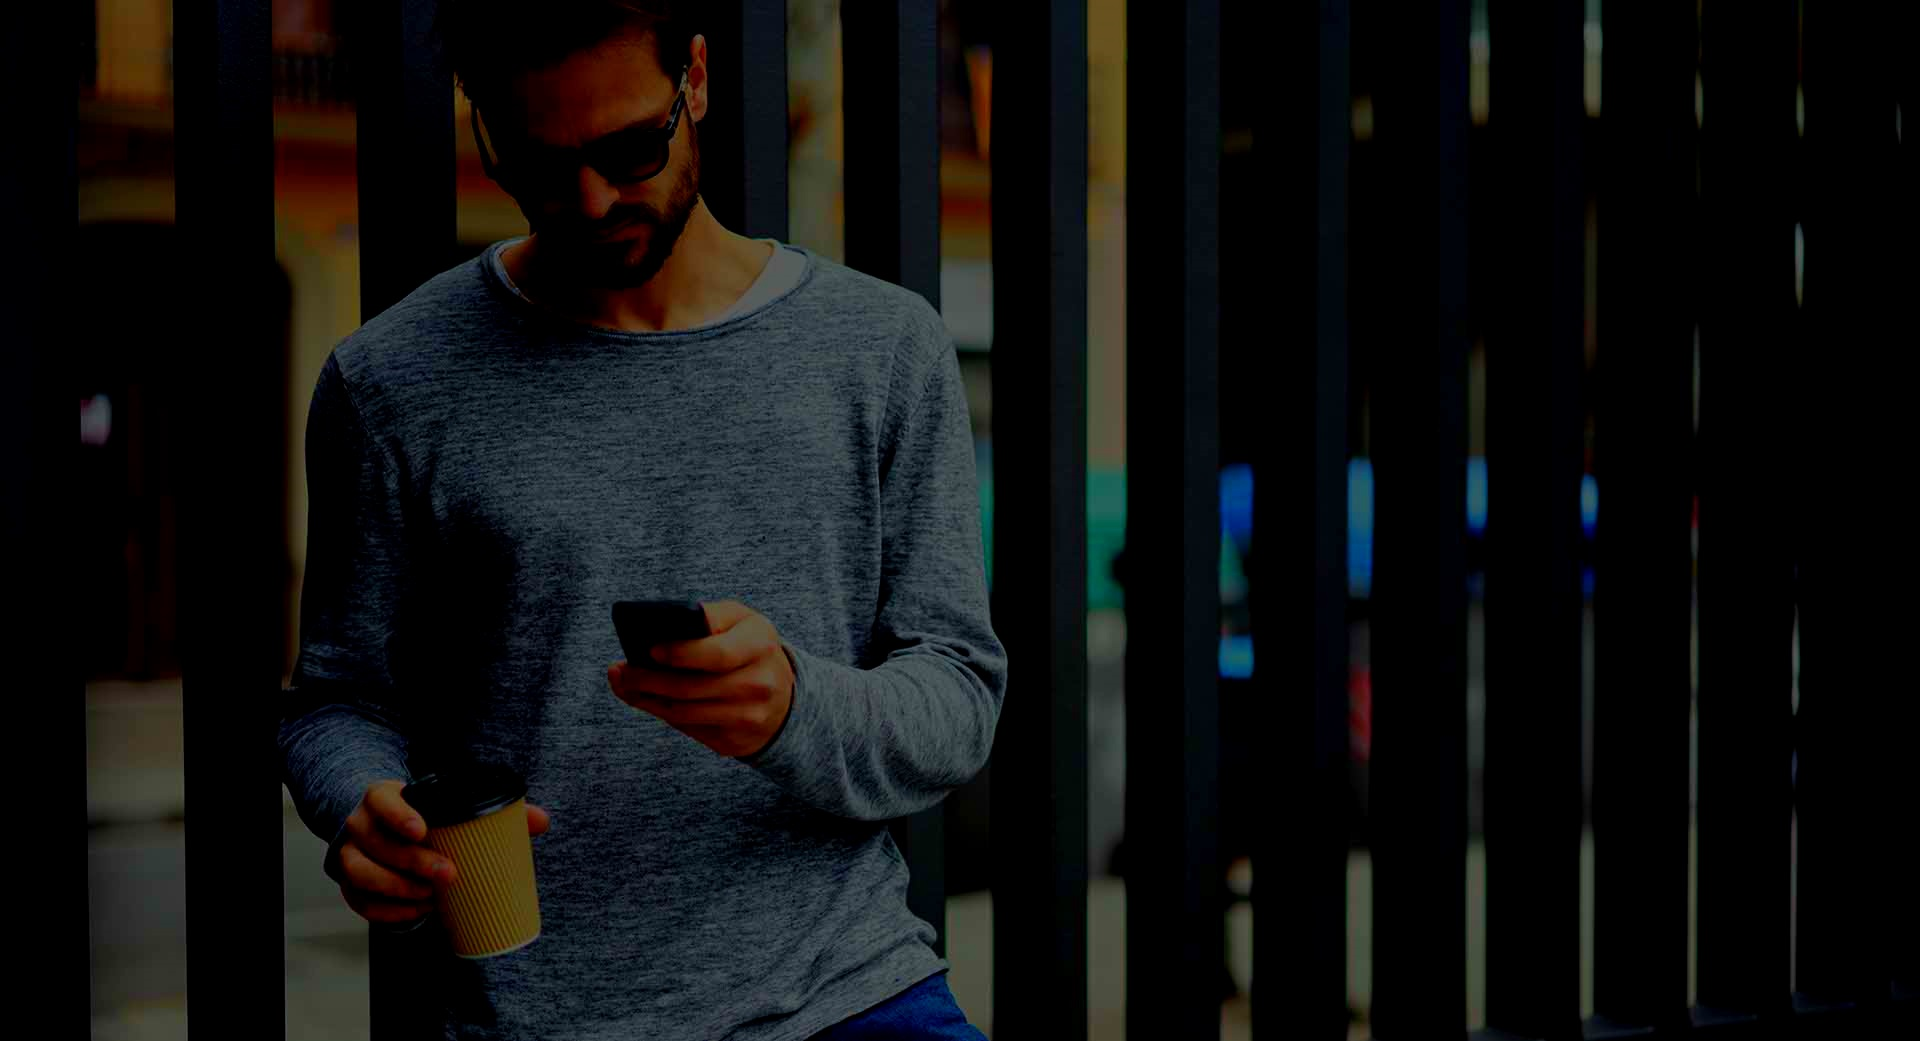
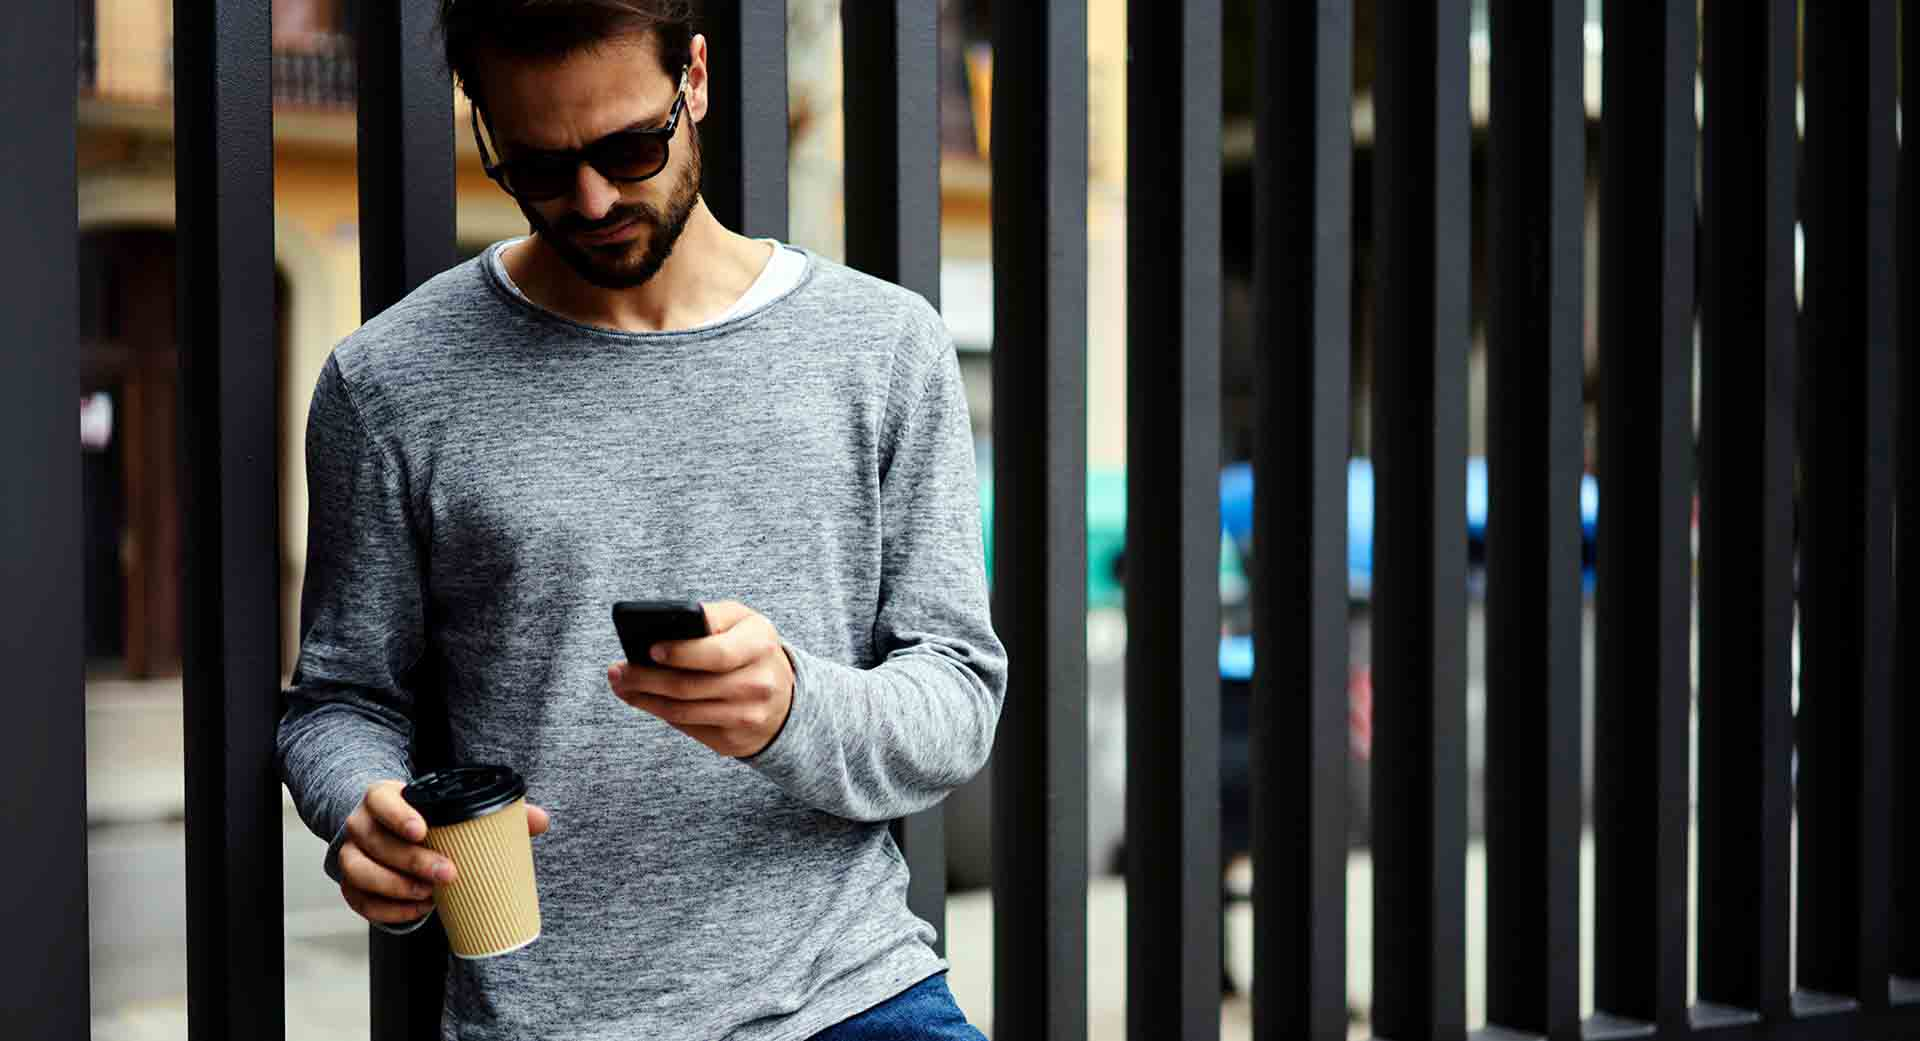
my resume

diff --git a/index.html b/index.html
@@ -26,13 +26,15 @@
     <link rel="stylesheet" href="css/contact.css">
     <link rel="stylesheet" href="css/footer.css">
 </head>
+
 <body>
+
     <header class="container">
         <div class="row" id="hdr">
             <div class="col-2">
                 <img class="logo" src="img/logo.png" alt="Logo">
             </div>
-            <div class="col-10 hidden-sm">
+            <div class="col-9 margin-l-1 hidden-sm">
                 <nav>
                     <a href="#">Home</a>
                     <a href="#about">About</a>
@@ -63,16 +65,14 @@
             </div>
         </div>   
     </div>
-    
-   
         
     <div class="container bg-third-color">
         <div class="row" id="about">
-            <div class="col-5 margin-l-1 col-md-12 margin-md-0">
+            <div class="col-5 margin-l-1 col-md-6 margin-md-0 col-sm-12 margin-sm-0">
                 <img src="img/john.jpg"/>
             </div>
             
-            <div class="col-5 margin-r-1 col-md-12 margin-md-0">
+            <div class="col-5 margin-r-1 col-md-6 margin-md-0 col-sm-12 margin-sm-0">
                 <div class="h3-cont">
                     <h3><span>About</span> Me</h3>
                 </div>
@@ -113,6 +113,44 @@
         <div class="row" id="resume">
             <div class="col-12">
                 <h3> <span>My</span> resume</h3> 
+            </div>
+            <div class="col-6 col-sm-12 left-study">
+                <i class="fa fa-book"></i>
+                <div class="all-list"></div>
+                <!-- <div class="list">
+                    <p>Jan 2004 - Dec 2006</p>
+                    <h5>SPECIAdivZATION COURSE</h5>
+                    <h6>University Of Studies, Poland, Cracow</h6>
+                </div>
+                <div class="list">
+                        <p>Jan 2004 - Dec 2006</p>
+                        <h5>SPECIAdivZATION COURSE</h5>
+                        <h6>University Of Studies, Poland, Cracow</h6>
+                    </div>
+                    <div class="list">
+                        <p>Jan 2004 - Dec 2006</p>
+                        <h5>SPECIAdivZATION COURSE</h5>
+                        <h6>University Of Studies, Poland, Cracow</h6>
+                    </div> -->
+            </div>
+            <div class="col-6 col-sm-12 right-work">
+                <i class="fa fa-briefcase"></i>
+                <div class="all-list"></div>
+                <!-- <div class="list">
+                    <p>Jan 2004 - Dec 2006</p>
+                    <h5>SPECIAdivZATION COURSE</h5>
+                    <h6>University Of Studies, Poland, Cracow</h6>
+                </div>
+                <div class="list">
+                        <p>Jan 2004 - Dec 2006</p>
+                        <h5>SPECIAdivZATION COURSE</h5>
+                        <h6>University Of Studies, Poland, Cracow</h6>
+                    </div>
+                    <div class="list">
+                            <p>Jan 2004 - Dec 2006</p>
+                            <h5>SPECIAdivZATION COURSE</h5>
+                            <h6>University Of Studies, Poland, Cracow</h6>
+                        </div> -->
             </div>
         </div> 
     </div>

diff --git a/css/resume.css b/css/resume.css
@@ -1,1 +1,97 @@
 /* Resume section */
+#resume i{
+    display: inline-block;
+    width: 50px;
+    height: 50px;
+    border: 1px solid black;
+    border-radius: 50%;
+    font-size: 20px;
+    line-height: 50px;
+    text-align: center;
+    color: var(--third-color);
+    background-color: var(--icon-fill);
+}
+
+#resume .left-study{
+    text-align: right;
+}
+
+#resume .right-work{
+    text-align: left;   
+}
+
+#resume .list{
+    padding-bottom: 25px;
+    padding-top: 40px;
+}
+
+    #resume .list:last-child{
+        padding-bottom: 0;
+    }
+        #resume .left-study .list:last-child{
+            margin-bottom: 50px;
+        }
+        #resume .right-work .list:last-child{
+            margin-bottom: 100px;
+        }
+
+
+    #resume .left-study  .list {
+        position: relative;
+        width: calc(100% - 25px);
+        padding-right: 25px;
+        margin-right: -25px;
+        border-right: 1px solid var(--secondary-color);
+    }
+        #resume .left-study .list::before {
+            content: '';
+            position: absolute;
+            top: 43px;
+            right: -6px;
+            width: 7px;
+            height: 7px;
+            border: var(--gold) solid 2px;
+            background: var(--icon-fill);
+            border-radius: 50px;
+        }
+
+    #resume .right-work .list {
+        position: relative; 
+        width: calc(100% - 25px);
+        padding-left: 25px;
+        margin-left: 25px;
+        border-left: 1px solid var(--secondary-color);
+    }
+        #resume .right-work .list::before {
+            content: '';
+            position: absolute;
+            top: 43px;
+            left: -6px;
+            width: 7px;
+            height: 7px;
+            border: var(--gold) solid 2px;
+            background: var(--icon-fill);
+            border-radius: 50px;
+        }
+    
+        #resume .list > p{
+            padding-bottom: 20px;
+            font-size: 18px;
+            line-height: 18px;
+        }
+
+        #resume .list > h5{
+            font-size: 18px;
+            line-height: 18px;
+            font-weight: 400;
+            color: var(--main-color);
+            text-transform: uppercase;
+            padding-bottom: 10px;
+        }
+        
+        #resume .list > h6{
+            font-weight: 400;
+            font-size: 18px;
+            line-height: 18px;
+            margin-bottom: 10px;
+        }

diff --git a/js/data.js b/js/data.js
@@ -69,6 +69,42 @@ const hardSkills = [
 
 /* My resume */
 
+const education = [
+    {
+        year: 'Jan 2004 - Dec 2006',
+        course: 'cooursourLists of  United Statessok',
+        school: 'Lists of schools in the United States'
+    },
+    {
+        year: 'Jan 2004 - Dec 2006',
+        course: 'cooursourLists of  United Statessok',
+        school: 'VGTu Lists of schools in the United States'
+    },
+    {
+        year: 'Jan 2004 - Dec 2006',
+        course: 'uber oursourscourse',
+        school: 'Lists of schools in the United '
+    }
+]
+
+const work = [
+    {
+        year: 'Jan 2004 - Dec 2006',
+        course: 'cooursourLists of  United Statessok',
+        school: 'keLists of schools in the United '
+    },
+    {
+        year: 'Jan 2004 - Dec 2006',
+        course: 'mcdonLists of schoted States winner',
+        school: 'mcdrivLists of in the Statesrse'
+    },
+    {
+        year: 'Jan 2004 - Dec 2006',
+        course: 'uber couroursseLists ofted States',
+        school: 'VLists of schoolUnited Statessoursa'
+    }
+]
+
 /* Achievements */
 
 /* My services */

diff --git a/js/functions.js b/js/functions.js
@@ -71,6 +71,36 @@ function progressBars( data ){
 }
 
 /* My resume */
+function workEducation( data ){
+    let HTML = '';
+    
+    if ( !Array.isArray(data) ) {
+        console.error('Wrong data type. Has to be an array.');
+        return HTML;
+    }
+    if ( data.length === 0 ){
+        console.error('Wrong data size. Non-empty array needed.');
+        return HTML;
+    }
+    for ( let i=0; i<data.length; i++ ){
+        if ( 
+        typeof( data[i].year ) !== 'string' ||
+        typeof( data[i].course ) !== 'string' ||
+        typeof( data[i].school ) !== 'string' ||
+        data[i].year === '' ||
+        data[i].course.lenght === 0 ||
+        data[i].school.length === 0 ) {
+            continue;
+        }
+    
+    HTML += `<div class="list">
+                <p>${data[i].year}</p>
+                <h5>${data[i].course}</h5>
+                <h6>${data[i].school}</h6>
+            </div>`
+    }
+    return HTML;
+}
 
 /* Achievements */
 

diff --git a/css/header.css b/css/header.css
@@ -24,18 +24,20 @@ header > .container{
     #hdr nav{
         display: inline-block;
         float: right;
-        margin: 15px 0;
+        margin-right: 50px;
     }
     #hdr nav a{
         margin: 0 10px;
         width: 50px;
-        line-height: 20px; 
+        line-height: 22px;
+        font-size: 18px; 
         text-decoration: none;
         color: var(--fourth-color-anti); 
         transition: all 0.5s; 
     }
         #hdr nav a:first-child{
             color: var(--main-color);
+            font-weight: bold;
         }
         #hdr nav a:hover{
             color: var(--main-color);

diff --git a/css/hero.css b/css/hero.css
@@ -1,11 +1,21 @@
 /* Hero */
 #hero-cont{
     background: url('../img/header.png');
-    /* background-color: black; */
-    /* opacity: 0.5; */
+    position: relative;
     background-repeat: no-repeat;
     background-size: cover;
+    background-attachment: fixed;
 }
+    #hero-cont::before{
+        content: '';
+        position: absolute;
+        top: 0;
+        bottom: 0;
+        right: 0;
+        left: 0;
+        background-color: black;
+        opacity: 0.6;
+    }
 #hero {
     width: 100%;
     margin: 100px 0;

diff --git a/js/actions.js b/js/actions.js
@@ -12,7 +12,8 @@ document.querySelector('#skills .softskills').innerHTML = progressBars( softSkil
 document.querySelector('#skills .hardskills').innerHTML = progressBars( hardSkills );
 
 /* My resume */
-
+document.querySelector('#resume .left-study .all-list').innerHTML = workEducation( education );
+document.querySelector('#resume .right-work .all-list').innerHTML = workEducation( work );
 /* Achievements */
 
 /* My services */

diff --git a/css/variables.css b/css/variables.css
@@ -11,4 +11,6 @@
     --fourth-color-anti: #ffffff;
     --fifth-color: #9e9e9e;
     --text-area-lables: #e9ecef;
+    --icon-fill: #2E353E;
+    --gold: #D6B161;
 }

diff --git a/css/button.css b/css/button.css
@@ -15,3 +15,9 @@
     border: 0;
     border-radius: 30px ;
 }
+
+@media ( max-width: 1100px ){
+    #about .button{
+        width: 100%;
+    }
+}
